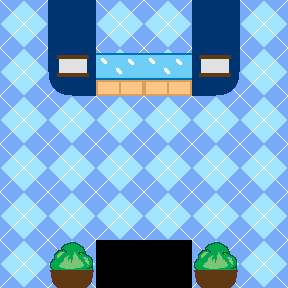
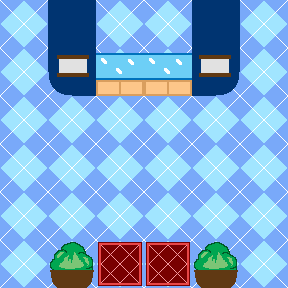
neses

Changed region(s): [[0.3125, 0.8125, 0.6875, 1.0]]

diff --git a/RPG - Vinay/src/main/Map.java b/RPG - Vinay/src/main/Map.java
@@ -180,29 +180,6 @@ public class Map {
 			tiles[96][149].setType(20);
 		}
 		// Portal Locations
-		if (num == 1) {
-			tiles[2][2] = new Portal(96, 96, true,
-					new Vector(50 * 48, 50 * 48), 2);
-			tiles[103][0] = new Portal(103 * 48, 0, true, new Vector(99 * 48,
-					149 * 48), 2);
-			tiles[102][0] = new Portal(102 * 48, 0, true, new Vector(98 * 48,
-					149 * 48), 2);
-			tiles[101][0] = new Portal(101 * 48, 0, true, new Vector(97 * 48,
-					149 * 48), 2);
-			tiles[100][0] = new Portal(100 * 48, 0, true, new Vector(96 * 48,
-					149 * 48), 2);
-		}
-		else if (num == 2) {
-			tiles[2][2] = new Portal(96, 96, true, new Vector(96, 96), 1);
-			tiles[99][149] = new Portal(99 * 48, 149 * 48, true, new Vector(
-					103 * 48, 0), 1);
-			tiles[98][149] = new Portal(98 * 48, 149 * 48, true, new Vector(
-					102 * 48, 0), 1);
-			tiles[97][149] = new Portal(97 * 48, 149 * 48, true, new Vector(
-					101 * 48, 0), 1);
-			tiles[96][149] = new Portal(96 * 48, 149 * 48, true, new Vector(
-					100 * 48, 0), 1);
-		}
 		if(num == 1) 
 		{
 			//tiles[2][2] = new Portal(96, 96, true, new Vector(50*48, 50*48), 2);
@@ -220,7 +197,12 @@ public class Map {
 			tiles[149][81] = new Portal(149*48, 81*48, true, new Vector(0, 126*48), 3);
 			tiles[149][82] = new Portal(149*48, 82*48, true, new Vector(0, 127*48), 3);
 			tiles[149][83] = new Portal(149*48, 83*48, true, new Vector(0, 128*48), 3);
-			tiles[15][16] = new Portal(15*48, 16*48, true, new Vector(2*48, 5*48), 5);
+			tiles[149][80].setType(20);
+			tiles[149][81].setType(20);
+			tiles[149][82].setType(20);
+			tiles[149][83].setType(20);
+			tiles[15][15] = new Portal(15*48, 15*48, true, new Vector(2*48, 5*48), 5);
+			tiles[15][15].setType(202);
 		}
 		//tiles[2][2].setType(101);
 		if (num == 3)
@@ -229,11 +211,17 @@ public class Map {
 			tiles[0][126] = new Portal(0, 126*48, true, new Vector(149*48, 81*48), 1);
 			tiles[0][127] = new Portal(0, 127*48, true, new Vector(149*48, 82*48), 1);
 			tiles[0][128] = new Portal(0, 128*48, true, new Vector(149*48, 83*48), 1);
+			tiles[0][125].setType(38);
+			tiles[0][126].setType(38);
+			tiles[0][127].setType(38);
+			tiles[0][128].setType(38);
 		}
 		if (num == 5)
 		{
-			tiles[2][5] = new Portal(2*48, 5*58, true, new Vector(15*48, 16*48), 1);
-			tiles[3][5] = new Portal(3*48, 5*58, true, new Vector(15*48, 16*48), 1);
+			tiles[2][5] = new Portal(2*48, 5*48, true, new Vector(15*48, 15*48), 1);
+			tiles[2][5].setType(208);
+			tiles[3][5] = new Portal(3*48, 5*48, true, new Vector(15*48, 15*48), 1);
+			tiles[3][5].setType(208);
 		}
 		length = bi.getWidth() * tileSize;
 		width = bi.getHeight() * tileSize;
